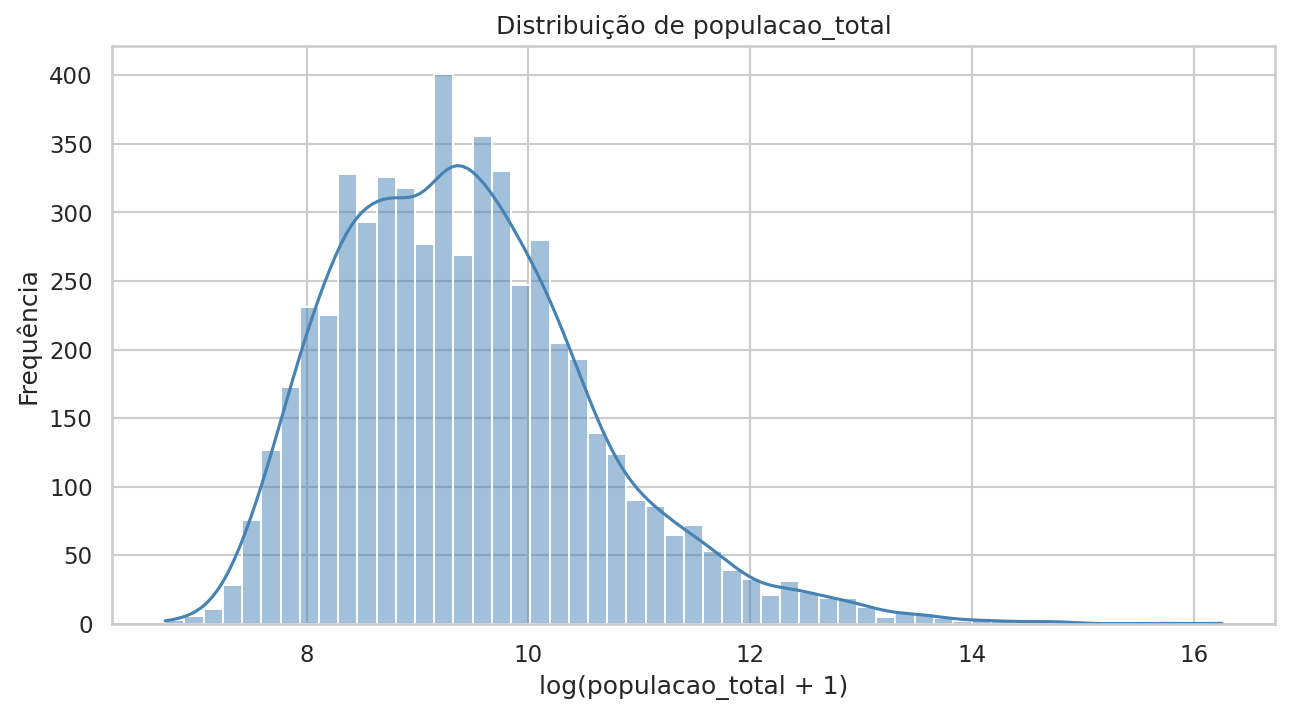
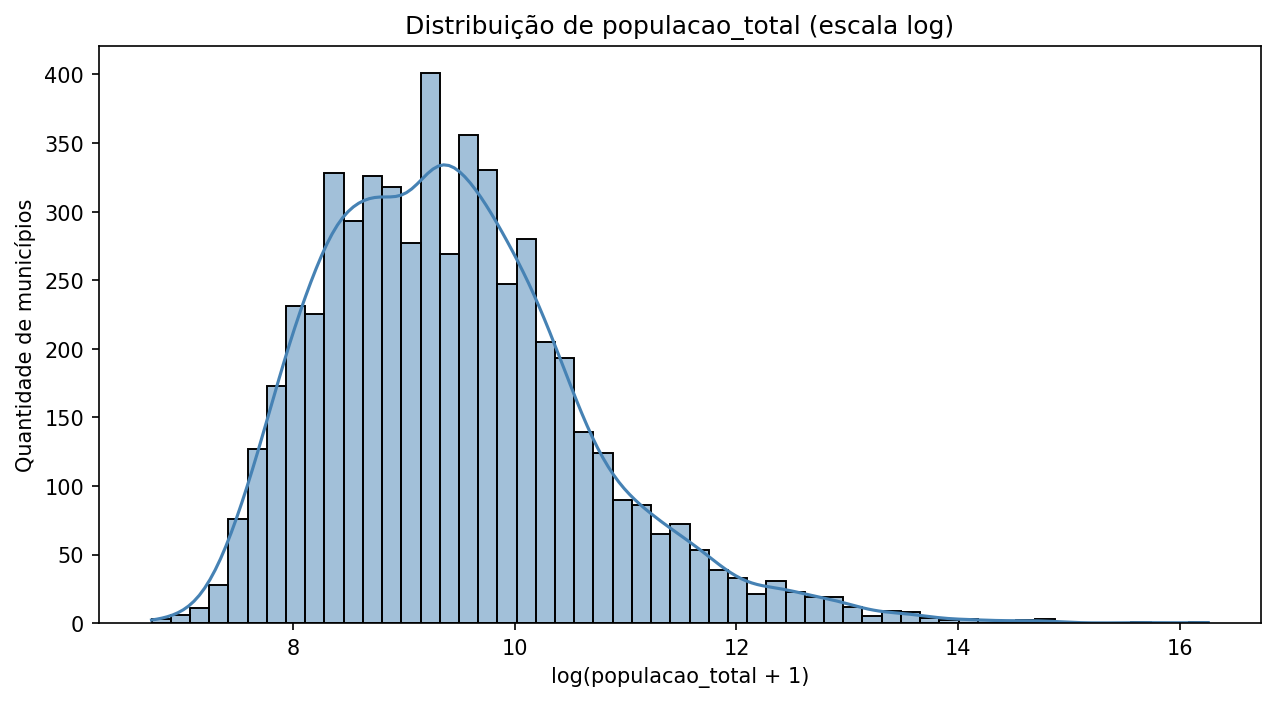
feat(utils): melhora rótulo e título dos gráficos de distribuição

diff --git a/src/utils/eda.py b/src/utils/eda.py
@@ -175,12 +175,15 @@ def plot_distribution(
 ) -> plt.Figure:
     """Gera histograma com KDE para uma variável numérica.
 
+    O eixo Y representa a quantidade de municípios em cada faixa, e não
+    a quantidade de indivíduos.
+
     Args:
         df: DataFrame de entrada.
         column: Coluna numérica a ser plotada.
         title: Título do gráfico.
         xlabel: Rótulo do eixo X.
-        log_scale: Se True, aplica log1p nos dados.
+        log_scale: Se True, aplica log1p nos dados e indica no título.
         filename: Nome do arquivo para salvar a figura.
 
     Returns:
@@ -189,9 +192,13 @@ def plot_distribution(
     fig, ax = plt.subplots(figsize=(10, 5))
     data = np.log1p(df[column].dropna()) if log_scale else df[column].dropna()
     sns.histplot(data, kde=True, ax=ax, color="steelblue")
-    ax.set_title(title or f"Distribuição de {column}")
+
+    default_title = f"Distribuição de {column}"
+    if log_scale:
+        default_title += " (escala log)"
+    ax.set_title(title or default_title)
     ax.set_xlabel(xlabel or (f"log({column} + 1)" if log_scale else column))
-    ax.set_ylabel("Frequência")
+    ax.set_ylabel("Quantidade de municípios")
     if filename:
         save_figure(fig, filename)
     return fig
